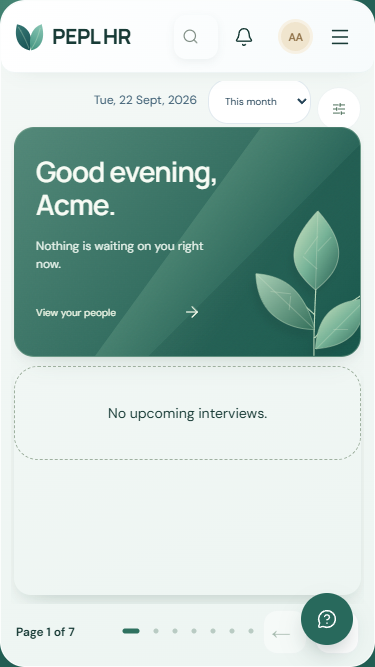
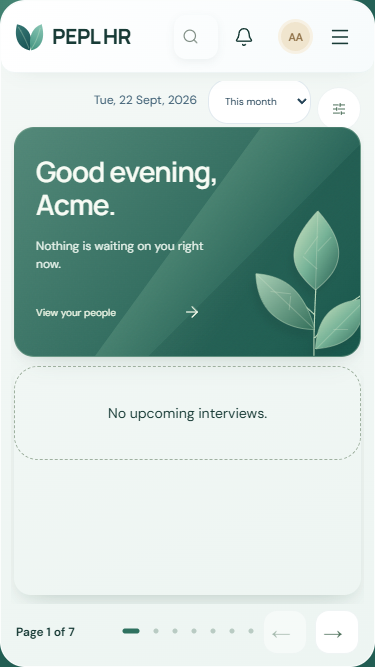
fix(ui): the dashboard now fits its viewport, and nothing spills its tile
The board took every widget on one page above 1050px, so the last rows fell
below the fold and the rows above were shorter than their own content: the
welcome link, the Punch In button and the donut's heading were all cut.

- page by what fits: maxRows is derived from the measured frame height
- give the fitted grid a definite height so 1fr rows share the frame exactly
- replace the circular minmax(min-content,1fr) floor with --tile-min
- size the donut against the row budget instead of the window (vh)
- reserve a gutter for the fixed assistant launcher, which sat on Next

Measured at 1280x720, 1366x768, 1432x840, 1440x900, 1536x864 and 1920x1080:
no board scroll, no tile cut off, no clipped text, no document overflow.
check:responsive green, typecheck:web clean, widget-pagination 3/3.

Changed region(s): [[0.792, 0.8696, 0.9387, 0.9895]]

diff --git a/web/src/styles/viewport.css b/web/src/styles/viewport.css
@@ -1,5 +1,5 @@
 /* One viewport: a stationary app frame, scrollable work areas, and paged widgets. */
-:root { --app-inset:16px; }
+:root { --app-inset:16px; --tile-min:150px; }
 html,body,#root { width:100%; height:100%; min-height:0; }
 body { padding:var(--app-inset); overflow:hidden; min-width:320px; }
 .app-shell { height:calc(100dvh - var(--app-inset) * 2); min-height:0; max-height:calc(100dvh - var(--app-inset) * 2); display:flex; flex-direction:column; overflow:hidden; }
@@ -23,11 +23,11 @@ body { padding:var(--app-inset); overflow:hidden; min-width:320px; }
 .route-content:has(> .widget-workspace) { display:flex; flex-direction:column; overflow:hidden; padding-bottom:0; }
 .dashboard-heading { flex:0 0 36px; height:36px; margin-bottom:12px; }
 .widget-workspace { flex:1 1 auto; min-height:0; display:flex; flex-direction:column; }
-.widget-frame { flex:1 1 auto; min-height:0; overflow:hidden; outline:none; }
+.widget-frame { flex:1 1 auto; min-height:0; overflow:auto; outline:none; scrollbar-width:thin; overscroll-behavior:contain; }
 .widget-frame:focus-visible { outline:2px solid #6c9b87; outline-offset:-2px; border-radius:16px; }
-.widget-workspace:not(.is-customizing) .widget-grid { height:100%; grid-template-rows:repeat(var(--page-rows),minmax(0,1fr)); grid-auto-rows:minmax(0,1fr); align-items:stretch; }
+.widget-workspace:not(.is-customizing) .widget-grid { height:100%; min-height:0; grid-template-rows:none; grid-auto-rows:minmax(var(--tile-min),1fr); align-items:stretch; }
 .widget-workspace:not(.is-customizing) .dashboard-widget { min-height:0; margin-top:0; }
-.widget-workspace:not(.is-customizing) .widget-content { height:100%; min-height:0; overflow:auto; border-radius:17px; scrollbar-width:thin; overscroll-behavior:contain; }
+.widget-workspace:not(.is-customizing) .widget-content { height:100%; min-height:0; overflow:visible; border-radius:17px; }
 .widget-workspace:not(.is-customizing) .widget-content > .card,.widget-workspace:not(.is-customizing) .widget-content > .welcome-card,.widget-workspace:not(.is-customizing) .widget-content > .culture-card { height:100%; min-height:0; }
 .widget-workspace:not(.is-customizing) .widget-content > .welcome-card { padding:21px; }
 .widget-workspace:not(.is-customizing) .widget-content > .welcome-card h2 { font-size:27px; }
@@ -101,7 +101,7 @@ body { padding:var(--app-inset); overflow:hidden; min-width:320px; }
 @media(min-width:1051px) {
  .widget-workspace:not(.is-customizing) .widget-grid { gap:10px; }
  .widget-workspace:not(.is-customizing) .widget-content > .card { padding:12px 15px; }
- .widget-workspace:not(.is-customizing) .widget-content > .welcome-card { padding:16px 22px; }
+ .widget-workspace:not(.is-customizing) .widget-content > .welcome-card { padding:10px 22px; }
  .widget-workspace:not(.is-customizing) .widget-content > .welcome-card h2 { font-size:25px; margin:0 0 8px; }
  .widget-workspace:not(.is-customizing) .welcome-card p { font-size:12px; }
  .widget-workspace:not(.is-customizing) .welcome-card a { margin-top:5px; padding-top:2px; }
@@ -118,10 +118,10 @@ body { padding:var(--app-inset); overflow:hidden; min-width:320px; }
  .widget-workspace:not(.is-customizing) .empty { min-height:65px; padding:2px; }
  .widget-workspace:not(.is-customizing) .empty-icon { width:26px; height:26px; margin-bottom:4px; }
  .widget-workspace:not(.is-customizing) .empty p { line-height:1.35; }
- .widget-workspace:not(.is-customizing) .culture-card { padding:14px 18px; }
+ .widget-workspace:not(.is-customizing) .culture-card { padding:8px 18px; }
  .widget-workspace:not(.is-customizing) .culture-card > svg:first-child { width:24px; height:24px; }
  .widget-workspace:not(.is-customizing) .culture-card p { font-size:15px; margin-top:7px; }
- .widget-workspace:not(.is-customizing) .culture-dash { margin-top:8px; }
+ .widget-workspace:not(.is-customizing) .culture-dash { margin-top:4px; }
  .widget-workspace:not(.is-customizing) .payroll-summary-total { font-size:23px; }
  .widget-workspace:not(.is-customizing) .payroll-history { height:48px; }
  .widget-workspace:not(.is-customizing) .history-bar { max-height:36px; }
@@ -132,8 +132,8 @@ body { padding:var(--app-inset); overflow:hidden; min-width:320px; }
  .dashboard-widget:has(.stat) { grid-column:span 6!important; }
 }
 @media(min-width:1051px) {
- .widget-workspace:not(.is-customizing) .donut-layout { min-height:0; height:calc(100% - 34px); }
- .widget-workspace:not(.is-customizing) .widget-grid { grid-template-rows:repeat(var(--page-rows),minmax(0,1fr)); }
+ .widget-workspace:not(.is-customizing) .donut-layout { min-height:0; }
+ .widget-workspace:not(.is-customizing) .widget-grid { grid-template-rows:none; }
 }
 @media(min-width:1051px) and (max-height:800px) {
  .dashboard-heading { flex-basis:28px; height:28px; margin-bottom:8px; }

diff --git a/web/src/styles/composition.css b/web/src/styles/composition.css
@@ -11,7 +11,7 @@ body { background:repeating-linear-gradient(132deg,transparent 0 310px,#9ac3b20d
  .workspace-main { padding-top:8px; }
  .dashboard-heading { flex-basis:29px; height:29px; margin-bottom:9px; }
  .widget-workspace:not(.is-customizing) .widget-grid { gap:13px; }
- .widget-workspace:not(.is-customizing) .widget-grid[style*="--page-rows: 4"] { grid-template-rows:minmax(0,.95fr) minmax(0,1.3fr) minmax(0,.82fr) minmax(0,.93fr); }
+ .widget-workspace:not(.is-customizing) .widget-grid[style*="--page-rows: 4"] { grid-template-rows:none; }
  .widget-workspace:not(.is-customizing) .widget-content > .card { padding:14px 18px; background-color:#fff; }
  .widget-workspace:not(.is-customizing) .widget-content > .welcome-card { padding:17px 28px; }
  .widget-workspace:not(.is-customizing) .widget-content > .welcome-card h2 { font-size:clamp(25px,3.5vh,36px); line-height:1.08; margin-bottom:8px; }
@@ -22,7 +22,9 @@ body { background:repeating-linear-gradient(132deg,transparent 0 310px,#9ac3b20d
  .app-shell .workspace-main .widget-workspace .widget-content > .stat > p { font-size:14px; }
  .widget-workspace:not(.is-customizing) .stat .icon-box { width:40px; height:40px; }
  .widget-workspace:not(.is-customizing) .stat .icon-box svg { width:25px; height:25px; }
- .widget-workspace:not(.is-customizing) .donut { width:clamp(115px,17vh,190px); }
+ /* A fitted row is about 18vh, less the heading and padding, so the donut has to be
+    sized against that budget rather than the whole window. */
+ .widget-workspace:not(.is-customizing) .donut { width:clamp(88px,12vh,150px); }
  .widget-workspace:not(.is-customizing) .donut strong { font-size:28px; }
  .widget-workspace:not(.is-customizing) .donut-layout { gap:23px; }
  .widget-workspace:not(.is-customizing) .legend { gap:9px; }
@@ -69,7 +71,7 @@ body { background:repeating-linear-gradient(132deg,transparent 0 310px,#9ac3b20d
  .widget-workspace:not(.is-customizing) .card-head h2 { font-size:15px; }
 }
 @media(min-width:1051px) and (max-height:800px) {
- .widget-workspace:not(.is-customizing) .widget-grid[style*="--page-rows: 4"] { grid-template-rows:minmax(0,.95fr) minmax(0,1.3fr) minmax(0,.9fr) minmax(0,.85fr); }
+ .widget-workspace:not(.is-customizing) .widget-grid[style*="--page-rows: 4"] { grid-template-rows:none; }
  .widget-workspace:not(.is-customizing) .widget-content > .stat { padding:8px 16px; }
  .widget-workspace:not(.is-customizing) .stat > strong { font-size:30px; }
  .widget-workspace:not(.is-customizing) [data-widget-id=attendance] .donut-layout { height:calc(100% - 47px); }

diff --git a/web/src/styles/pay.css b/web/src/styles/pay.css
@@ -138,6 +138,10 @@ details summary { cursor: pointer; font-size: 12px; color: var(--primary); min-h
 .assistant-launcher { position: fixed; right: 22px; bottom: 22px; z-index: 40; width: 52px; height: 52px; border-radius: 50%; background: var(--primary); color: #fff; display: grid; place-items: center; box-shadow: 0 12px 28px -12px #0b2a2699; }
 .assistant-launcher:hover { background: var(--primary-dark); }
 .assistant-launcher:focus-visible { outline: 2px solid #fff; outline-offset: 3px; }
+/* The launcher is fixed over the bottom-right corner; anything that lives there needs a gutter or the button sits on it. */
+.widget-pagination { padding-right: 66px; }
+.workspace-footer { padding-right: 78px; }
+@media (max-width: 540px) { .widget-pagination { padding-right: 60px; } }
 .assistant-scrim { position: fixed; inset: 0; z-index: 55; background: #0b2a2655; display: flex; justify-content: flex-end; }
 .assistant { width: min(420px, 100%); background: var(--surface); height: 100%; overflow: auto; padding: 20px; display: flex; flex-direction: column; gap: 14px; animation: slide-in .2s ease-out; }
 @keyframes slide-in { from { transform: translateX(24px); opacity: 0 } to { transform: none; opacity: 1 } }

diff --git a/web/src/WidgetBoard.tsx b/web/src/WidgetBoard.tsx
@@ -82,7 +82,11 @@ export function WidgetBoard({ children, account }: { children: ReactNode; accoun
       : viewport.width <= 1050 ? (widget.hero ? 12 : 6) : configured
     return { id, span }
   })
-  const pages = paginateWidgets(spans, viewport.width > 1050 ? Number.MAX_SAFE_INTEGER : Math.max(1, Math.floor((viewport.height + 16) / 240)))
+  // The board is one viewport, so a page holds as many rows as the frame can show at a
+  // comfortable tile height. Desktop used to put every widget on a single page, which left
+  // the last rows below the fold and the tiles above them too short for their own content.
+  const minTile = viewport.width > 1050 ? 200 : 240
+  const pages = paginateWidgets(spans, Math.max(1, Math.floor((viewport.height + 16) / minTile)))
   const currentPage = Math.min(pageIndex, Math.max(0, pages.length - 1))
   const displayed = editing ? visible : pages[currentPage]?.ids ?? []
   const movePage = (next: number) => {

diff --git a/scripts/shoot.ts b/scripts/shoot.ts
@@ -62,6 +62,7 @@ async function main(): Promise<void> {
     }
 
     if (only === 'route') {
+      if (process.env.SHOOT_VIEWPORT) { const [w, h] = process.env.SHOOT_VIEWPORT.split('x').map(Number) as [number, number]; await page.setViewportSize({ width: w, height: h }) }
       const route = process.argv[3] ?? 'dashboard'
       const name = process.argv[4] ?? route.replace(/[^\w-]+/g, '-')
       await page.goto(`${BASE}/#/${route}`)

diff --git a/CLAUDE.md b/CLAUDE.md
@@ -217,6 +217,26 @@ load-bearing** — later files deliberately override earlier ones. Add rules to
 - A `<button>` with no class slips through every class-based CSS rule. The
   inactive tab in `Tabs` is one, and it was the last 41px touch target.
 - `npm run check:responsive` is green across eight devices. Keep it that way.
+- **The dashboard is one viewport, so the board must page by what FITS.**
+  `WidgetBoard` used to pass `Number.MAX_SAFE_INTEGER` as `maxRows` above 1050px,
+  putting every widget on one page: the last rows fell below the fold and the rows
+  above them were too short for their own content. It now derives `maxRows` from the
+  measured frame height over a minimum tile height.
+- **`1fr` rows need a DEFINITE grid height.** With `min-height:100%` the tracks size
+  to content and the board overflows the frame; `height:100%` makes the fr share
+  exact. `minmax(min-content,1fr)` is worse than useless here — the children are
+  `height:100%`, so `min-content` echoes the row height back and resolves ~250px
+  regardless of content. Use a pixel floor (`--tile-min`).
+- **Anything sized in `vh` inside a tile ignores the tile.** The donut was
+  `clamp(115px,17vh,190px)` and outgrew its row at every height. A fitted row is
+  about 18vh less heading and padding — size against that budget.
+- **`.assistant-launcher` is `position:fixed` in the bottom-right corner.** Anything
+  that lives there needs a gutter or the button sits on it; the pagination Next
+  button did. `.widget-pagination` and `.workspace-footer` reserve one in `pay.css`.
+- **The fitted dashboard's rules live in `composition.css`, not `viewport.css`** —
+  it is imported later, so it wins. Tuning viewport.css and seeing nothing change
+  means composition.css already sets that property.
+
 
 ## A migration cannot write a tenant-scoped table
 
